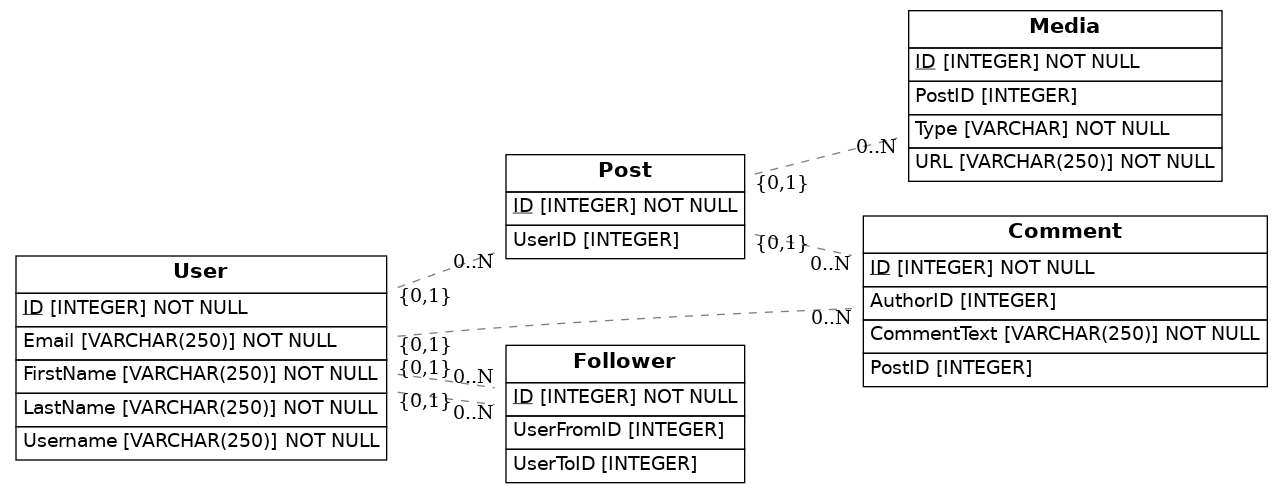
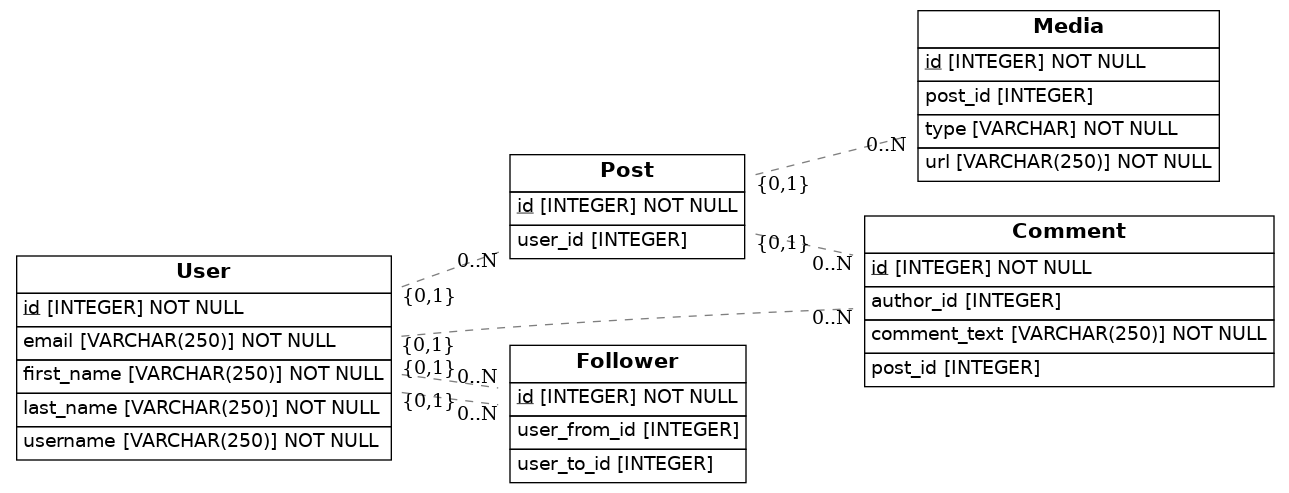
Proyecto Data Modeling Star Wars

diff --git a/src/models.py b/src/models.py
@@ -9,40 +9,40 @@ Base = declarative_base()
 
 class User(Base):
     __tablename__ = 'User'
-    ID = Column(Integer, primary_key=True)
-    Username = Column(String(250), nullable=False)
-    FirstName = Column(String(250), nullable=False)
-    LastName = Column(String(250), nullable=False)
-    Email = Column(String(250), nullable=False)
+    id = Column(Integer, primary_key=True)
+    username = Column(String(250), nullable=False)
+    first_name = Column(String(250), nullable=False)
+    last_name = Column(String(250), nullable=False)
+    email = Column(String(250), nullable=False)
     pass
 
 class Post(Base):
     __tablename__ = 'Post'
-    ID = Column(Integer, primary_key=True)
-    UserID = Column(Integer, ForeignKey('User.id'))
+    id = Column(Integer, primary_key=True)
+    user_id = Column(Integer, ForeignKey('User.id'))
     pass
 
 class Comment(Base):
     __tablename__ = 'Comment'
-    ID = Column(Integer, primary_key=True)
-    CommentText = Column(String(250), nullable=False)
-    AuthorID = Column(Integer, ForeignKey('User.id'))
-    PostID = Column(Integer, ForeignKey('Post.id'))
+    id = Column(Integer, primary_key=True)
+    comment_text = Column(String(250), nullable=False)
+    author_id = Column(Integer, ForeignKey('User.id'))
+    post_id = Column(Integer, ForeignKey('Post.id'))
     pass
 
 class Media(Base):
     __tablename__ = 'Media'
-    ID = Column(Integer, primary_key=True)
-    Type = Column(Enum, nullable=False)
-    URL = Column(String(250), nullable=False)
-    PostID = Column(Integer, ForeignKey('Post.id'))
+    id = Column(Integer, primary_key=True)
+    type = Column(Enum, nullable=False)
+    url = Column(String(250), nullable=False)
+    post_id = Column(Integer, ForeignKey('Post.id'))
     pass
 
 class Follower(Base):
     __tablename__ = 'Follower'
-    ID = Column(Integer, primary_key=True)
-    UserFromID = Column(Integer, ForeignKey('User.id'))
-    UserToID = Column(Integer, ForeignKey('User.id'))
+    id = Column(Integer, primary_key=True)
+    user_from_id = Column(Integer, ForeignKey('User.id'))
+    user_to_id = Column(Integer, ForeignKey('User.id'))
     pass
 
 ## Draw from SQLAlchemy base
